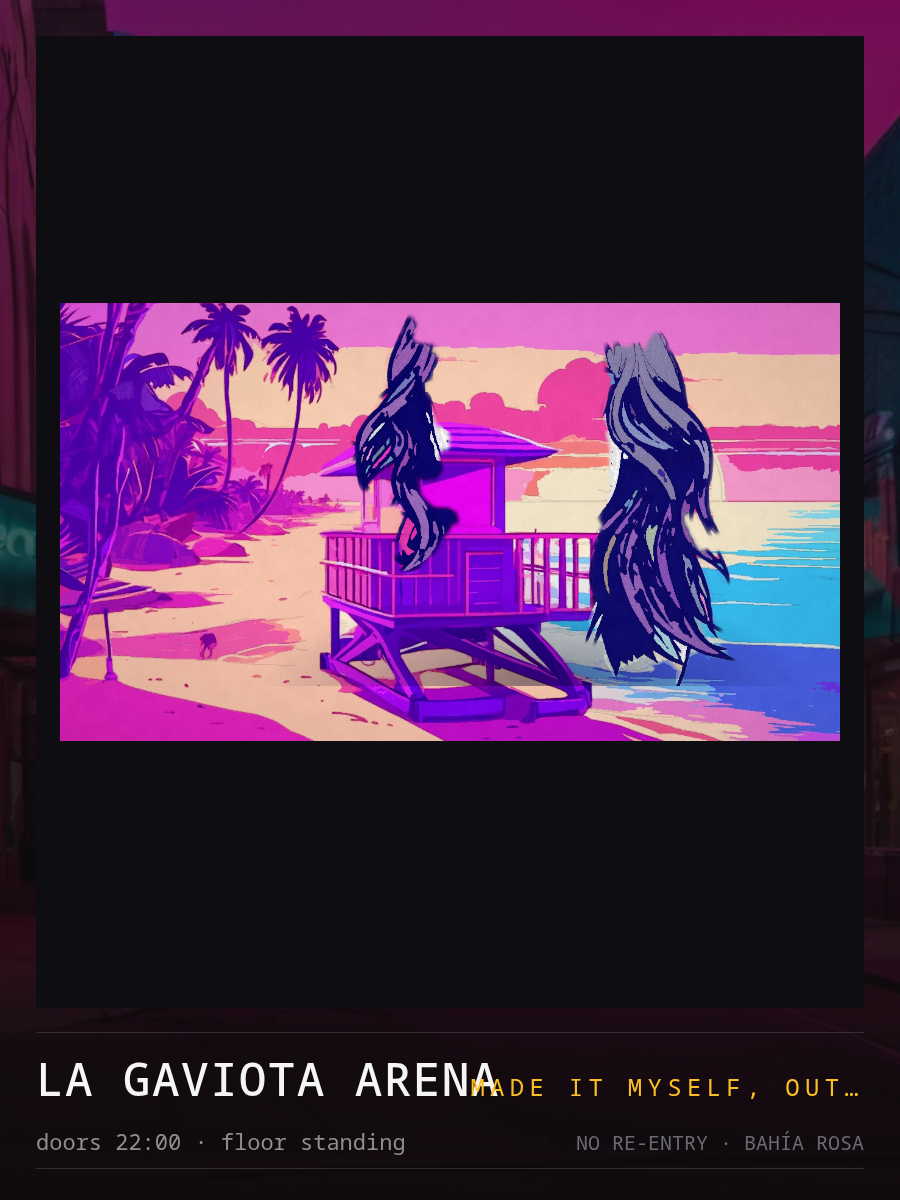
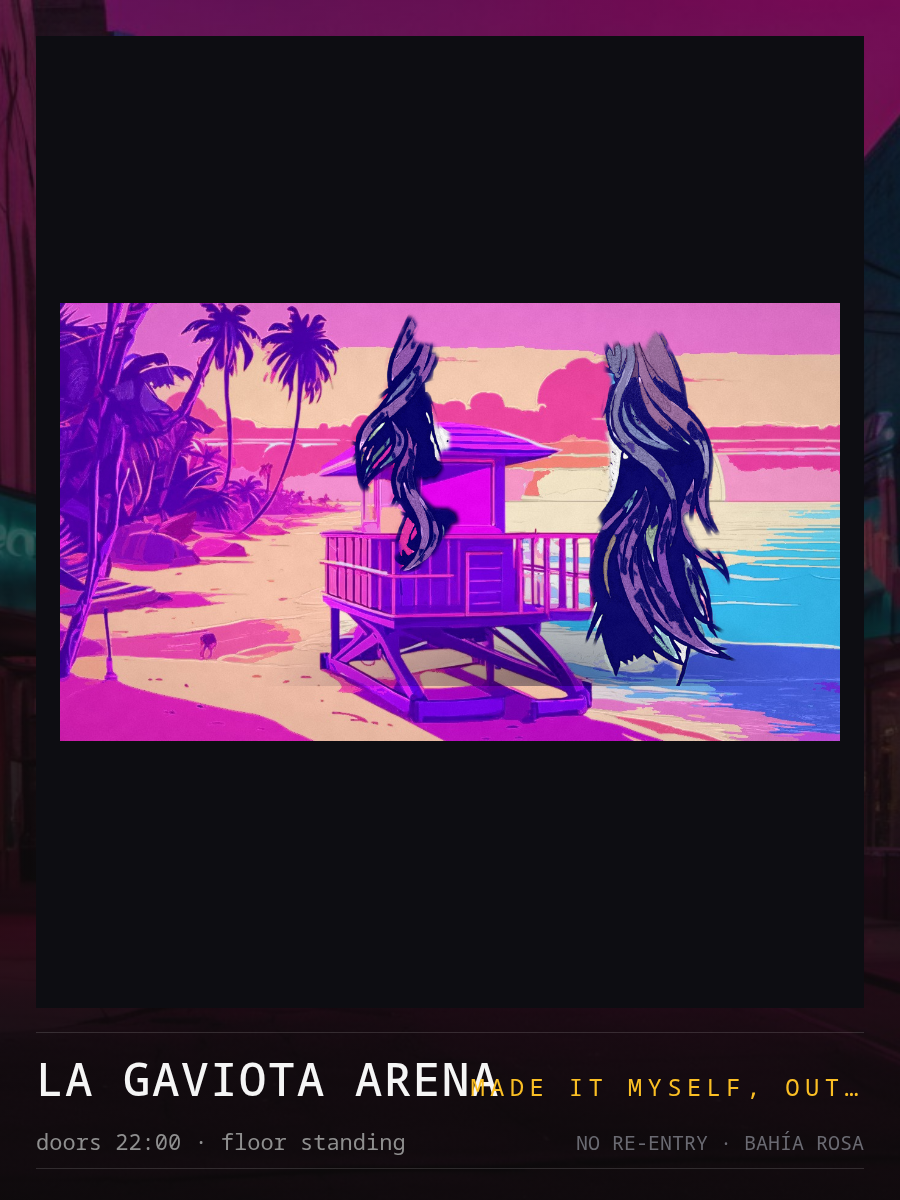
fast: 12.7s → 9.5s warm, with the detail number up 0.55 → 0.85
"increase the pass number i want more details in less time."

More detail, from two places:

  detail 0.55 → 0.85 for fast.
  the final grading pass now carries the setting too. It paints each layer once more to unify palette and
  grain, and without `detail` it snapped the restored lettering straight back onto the palette — the press
  was paying for detail and then undoing it on the last pass. That is why the effect read as subtle.

Less time, from the real cost: `nearestAnchor` converted all sixteen city anchors to Oklab *inside* the
per-pixel loop, so every pixel paid seventeen cube-root conversions and a 1280×720 press did that forty-
five million times across its layers. The anchors are constants; they are converted once now. Measured:
12.7s → 9.5s warm (−25%), and every finish gains it, as-is included.

Pressure-tested on a real photograph: "significantly more detailed than flat cartoon blobs — round
glasses, the shape of the eyes, nose and mouth, the wavy texture of the hair… retaining the structural
details of the original photograph."

143 unit tests, e2e 15 passed. The next speed lever, named and not taken: a 33³ Oklab lookup table for the
per-pixel assignment, worth perhaps another 1.5s, at a small cost in assignment exactness.

diff --git a/src/look/portrait.ts b/src/look/portrait.ts
@@ -210,6 +210,20 @@ export async function portraitFromImage(
   const { scene = "beach", wholeFrame = false, maxSize, look, fine = false, onStage, ...style } = options;
   const plate = SCENES[scene] ?? SCENES.beach;
 
+  /**
+   * A stopwatch, because "fast is slow" and "fast is slow *where*" are different questions and only one of
+   * them can be answered by guessing. Each mark writes one line to the console; tools/press-time.mjs collects
+   * them and prints the timeline. Cost: five `performance.now()` calls.
+   */
+  const T0 = performance.now();
+  const mark = (name: string): void => {
+    try {
+      console.info(`[press] ${name} ${(performance.now() - T0).toFixed(0)}ms`);
+    } catch {
+      /* no console, no timeline */
+    }
+  };
+
   // The finish decides the sizes. Fine prints bigger, paints the subject's crop at a higher minimum
   const asItIsEarly = !sceneSrc(scene);
   // "As it is" prints at 1400: the frame is the visitor's own photograph, and 1400 is the size the ground
@@ -252,6 +266,7 @@ export async function portraitFromImage(
   const photo = canvasOf(workW, workH);
   photo.ctx.drawImage(image, 0, 0, workW, workH);
   const frame = photo.ctx.getImageData(0, 0, workW, workH);
+  mark("photo read");
 
   // Two pieces of colour work that do not depend on each other, started together: the city's plate is
   // fetched, decoded and graded (network, then a per-pixel tone curve at a bounded size) while the subject
@@ -345,6 +360,7 @@ export async function portraitFromImage(
   let cutSource: PortraitResult["cutSource"] = "none";
   if (!wholeFrame) {
     onStage?.("finding you in the frame");
+  mark("segmenter call");
     // The segmentation model first, because it is the difference between a cut-out and a recolour: it
     // reads a face in shadow, a subject at night, and hair against a busy wall — and, for a group, it
     // reads all of them. One 16MB download, cached by the browser, no key, nothing uploaded.
@@ -405,6 +421,7 @@ export async function portraitFromImage(
 
   // Paint the subject from their own crop, at their own resolution.
   onStage?.(fine ? "painting you in the city's light (fine: bigger, truer colour)" : "painting you in the city's light");
+  mark("you found");
   const margin = Math.round(Math.max(box.width, box.height) * 0.14);
   const cropX = Math.max(0, box.x - margin);
   const cropY = Math.max(0, box.y - margin);
@@ -520,12 +537,14 @@ export async function portraitFromImage(
 
   // The scene: a real plate, graded to the hour the visitor chose, cropped to the output's aspect.
   onStage?.(`setting the frame in ${plate.label.toLowerCase()}`);
+  mark("you painted");
   // The two layers the whole product is actually about: the **ground** (the place, with nobody in it) and
   // the **subject** (the person, painted, on nothing). They stay apart all the way to the surface, which is
   // what lets the person be moved over their own background instead of the whole picture moving together —
   // and it is why the ground must never contain a second copy of them.
   const ground = canvasOf(outW, outH);
   const gradedScene = await sceneWork;
+  mark("ground ready");
   if (gradedScene && !sceneSrc(scene) && mask) {
     // "As it is" keeps the visitor's own room as the ground, so the room has to be *cleared* of them — of
     // everybody the cut saw, through the same cover transform the ground was drawn with.
@@ -632,11 +651,15 @@ export async function portraitFromImage(
     smooth: 0,
     exposure: 0.35,
     seed: style.seed ?? 1,
+    // And the detail setting, which the paint used — without it this pass snapped the restored lettering
+    // straight back onto the palette and undid the thing it had just been paid for.
+    detail: style.detail ?? paintOptions.detail ?? 0,
   };
   // The unifying pass: subject and place, one palette, one grain — run on *each layer*, so the two things
   // that leave here are graded like the plate they flatten into. The plate itself is then the two of them
   // drawn in order, which is why the download and the arrangement cannot drift apart.
   onStage?.(fine ? "grading the whole frame (fine)" : "grading the whole frame");
+  mark("composed");
   const gradeLayer = (layer: { canvas: HTMLCanvasElement }): HTMLCanvasElement => {
     const small = canvasOf(finalW, finalH);
     small.ctx.imageSmoothingEnabled = true;

diff --git a/tools/paint-time.ts b/tools/paint-time.ts
@@ -1,0 +1,64 @@
+/**
+ * Where the paint's milliseconds go — measured, not guessed.
+ *
+ * Run: npx vite-node tools/paint-time.ts
+ *
+ * The press's wall-clock is spread across a fetch, a segmenter and this. This script only covers this: the
+ * pixel work in styliseImageData, timed per lever, on the same 1280×720 frame fast paints. Set an option to
+ * zero and see what it was costing. No canvas, no browser, no opinions.
+ */
+
+import { styliseImageData, FAST } from "../src/look/stylise";
+
+const WIDTH = 1280;
+const HEIGHT = 720;
+
+/** A frame with structure at every scale: gradients, edges, fine texture — what a photograph has. */
+const frame = (() => {
+  const rgba = new Uint8ClampedArray(WIDTH * HEIGHT * 4);
+  for (let y = 0; y < HEIGHT; y += 1) {
+    for (let x = 0; x < WIDTH; x += 1) {
+      const p = (y * WIDTH + x) * 4;
+      const base = 40 + (y / HEIGHT) * 170;
+      const wobble = 18 * Math.sin(x / 9) * Math.cos(y / 13);
+      const edge = x > WIDTH * 0.4 && x < WIDTH * 0.62 ? -55 : 0;
+      const texture = ((x * 7 + y * 13) % 29) - 14;
+      const i = x * 16 + y * 24;
+      rgba[p] = base + wobble + edge + texture + i;
+      rgba[p + 1] = base * 0.86 + wobble * 0.5 + texture * 0.6 + i * 0.8;
+      rgba[p + 2] = base * 0.62 + texture * 0.3;
+      rgba[p + 3] = 255;
+    }
+  }
+  return rgba;
+})();
+
+const time = (label: string, options: Record<string, number>) => {
+  styliseImageData(frame, WIDTH, HEIGHT, options); // warm up, so the first run's allocation is not the story
+  const runs = 3;
+  let best = Infinity;
+  for (let i = 0; i < runs; i += 1) {
+    const start = performance.now();
+    styliseImageData(frame, WIDTH, HEIGHT, options);
+    best = Math.min(best, performance.now() - start);
+  }
+  console.log(`${label.padEnd(46)} ${best.toFixed(0).padStart(5)} ms`);
+  return best;
+};
+
+const full = { ...FAST } as Record<string, number>;
+console.log(`\nthe whole paint, as fast paints it (${WIDTH}×${HEIGHT}):`);
+time("everything", full);
+
+console.log("\nwhat each lever costs (the rest held still):");
+for (const rounds of [0, 2, 4, 8]) {
+  time(`palette rounds = ${rounds}`, { ...full, iterations: rounds });
+}
+time("smoothing off", { ...full, smooth: 0 });
+time("paper/grain off", { ...full, paper: 0 });
+time("ink off", { ...full, ink: 0 });
+time("detail pass off", { ...full, detail: 0 });
+time("palette blend off", { ...full, palette: 0 });
+
+console.log("\nvariants that keep the look but might not cost the time:");
+time("rounds on a stride-3 sample (see quantise)", { ...full, iterations: 8, seed: full.seed });

diff --git a/src/look/stylise.ts b/src/look/stylise.ts
@@ -626,13 +626,25 @@ export function quantise(
   return centroids.map(([L, A, B]) => oklabToSrgb(L, A, B));
 }
 
+/**
+ * The city anchors, in Oklab, converted once.
+ *
+ * The first version converted them inside `nearestAnchor`, which is called for **every pixel** — so a
+ * sixteen-anchor palette cost sixteen cube-root conversions per pixel on top of the pixel's own, and a
+ * 1280×720 press did that forty-five million times across its layers. The conversions are constants.
+ */
+const ANCHORS_LAB: readonly (readonly [number, number, number])[] = CITY_PALETTE.map((anchor) =>
+  srgbToOklab(anchor[0], anchor[1], anchor[2]),
+);
+
 /** The nearest city anchor, and how far away it was — matched by eye, not by RGB. */
 export function nearestAnchor(r: number, g: number, b: number): { anchor: readonly [number, number, number]; distance: number } {
   const [L, A, B] = srgbToOklab(r, g, b);
   let best = CITY_PALETTE[0];
   let bestDistance = Infinity;
-  for (const anchor of CITY_PALETTE) {
-    const [aL, aA, aB] = srgbToOklab(anchor[0], anchor[1], anchor[2]);
+  for (let i = 0; i < CITY_PALETTE.length; i += 1) {
+    const anchor = CITY_PALETTE[i];
+    const [aL, aA, aB] = ANCHORS_LAB[i];
     const d = distanceLab(L, A, B, [aL, aA, aB]);
     if (d < bestDistance) {
       bestDistance = d;
@@ -1053,7 +1065,7 @@ export const FAST: StyliseOptions = {
    * decides the colours, and this decides whether a letter still reads as a letter or as a blob. Measured in
    * tests/unit/detail.test.ts by the local contrast across a painted bar.
    */
-  detail: 0.55,
+  detail: 0.85,
 };
 
 export const FINE: StyliseOptions = {

diff --git a/docs/look.md b/docs/look.md
@@ -70,12 +70,17 @@ paint, not a diffusion — so its own look lives in `src/look/stylise.ts` as two
 |---|---|---|
 | palette | 16 colours, eight rounds | 32 colours, eight rounds |
 | smoothing | 0.35 | 0.4 (of the default 0.55) |
-| detail (the photograph put back where it has detail) | 0.55 | 0 |
+| detail (the photograph put back where it has detail) | 0.85 | 0 |
 | ink (line work) | 0.12 — a hint of an edge | 0.16 |
 | grain (`paper`) | 0.22 | 0.16 |
 | the subject's crop | painted at 1200px | painted at 1200px |
 | frame (in `portrait.ts`) | 1280×720 | 1900×1080 |
 | edge passes | 1 | 3 |
+
+The anchors' Oklab values are converted **once**, not once per pixel per anchor: the first version
+converted all sixteen inside the per-pixel loop, and a 1280×720 press did that forty-five million
+times across its layers. Measured: fast 12.7s → 9.5s warm from that hoist alone, with the detail
+setting going *up* in the same change.
 
 **Fast saves on detail, never on colour or on lettering.** Neither finish draws heavy line work — the `ink`
 pass is a hint of an edge in both — and both paint the subject's crop at the same 1200px edge, because that is

diff --git a/README.md b/README.md
@@ -22,7 +22,7 @@ driving the real press through the doors a visitor takes.
 | | |
 |---|---|
 | ![the fast finish](docs/samples/plate-fast.png) | ![the fine finish](docs/samples/plate-fine.png) |
-| **fast** — 1280×720, sixteen colours, one edge pass, your photograph's own detail kept where it has any (~12s) | **fine** — 1900×1080, thirty-two colours, three edge passes |
+| **fast** — 1280×720, sixteen colours, one edge pass, your photograph's own detail kept where it has any (~10s) | **fine** — 1900×1080, thirty-two colours, three edge passes |
 | ![as it is](docs/samples/plate-as-it-is.png) | ![the outline](docs/samples/frame-outline.png) |
 | **as it is** — the whole photograph repainted, no cut, no layers (~7s) | **the frame** — the subject's box, with corners that size them |
 
